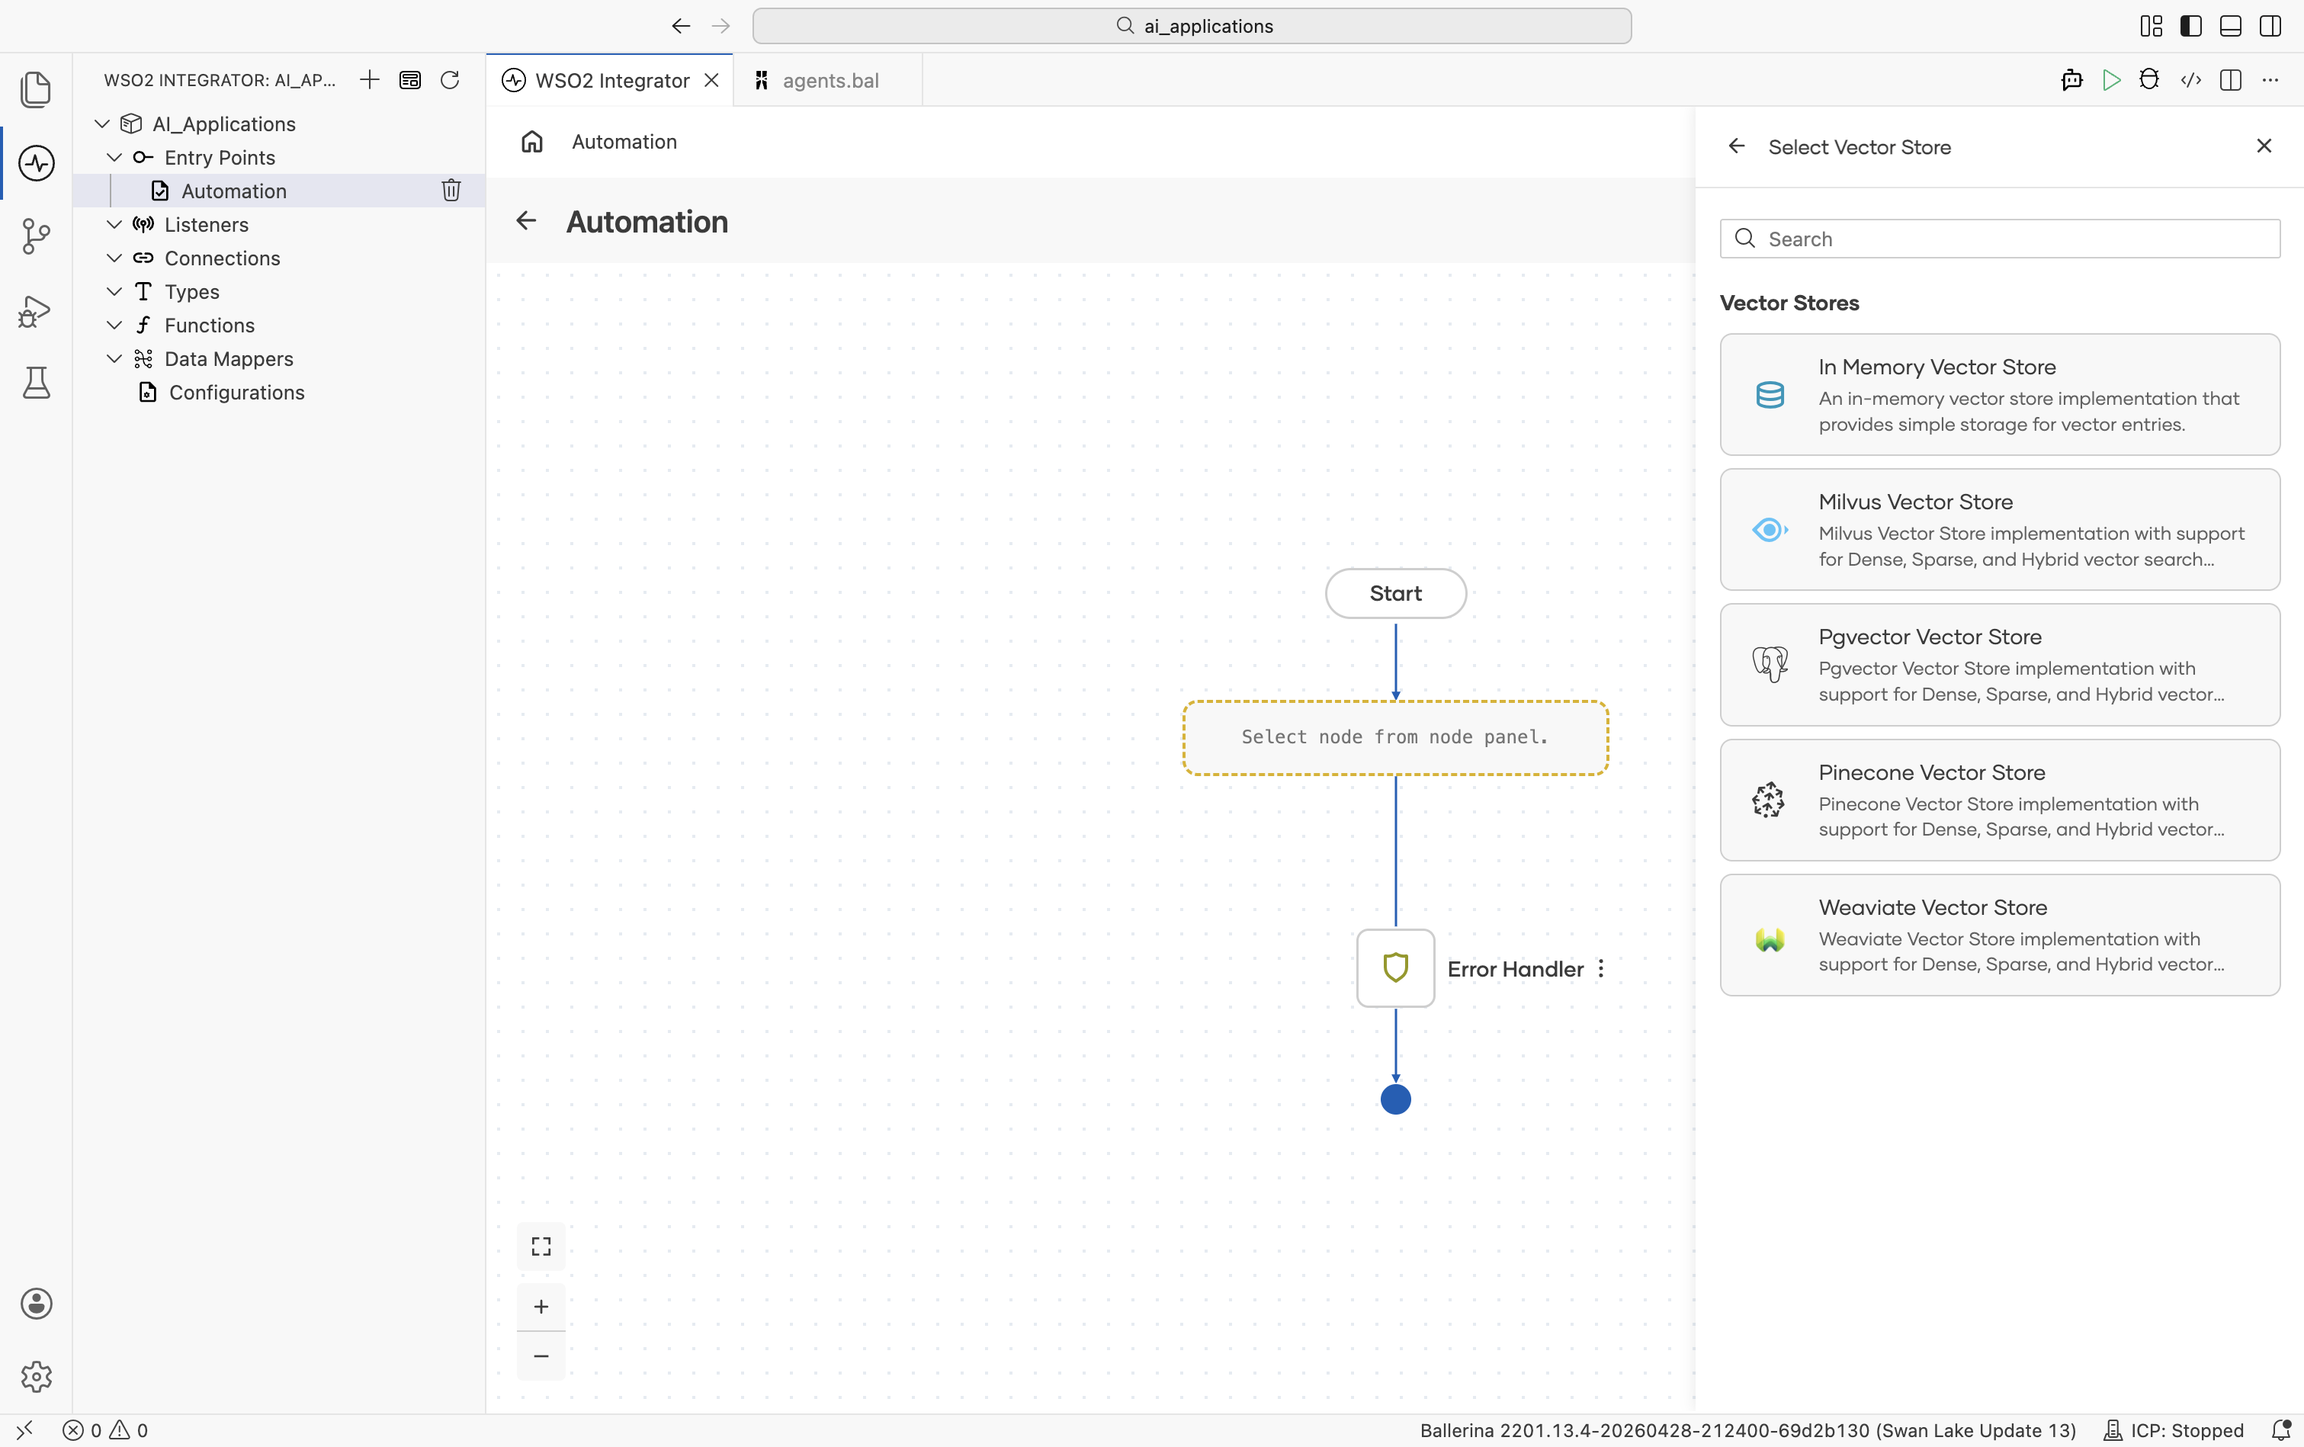
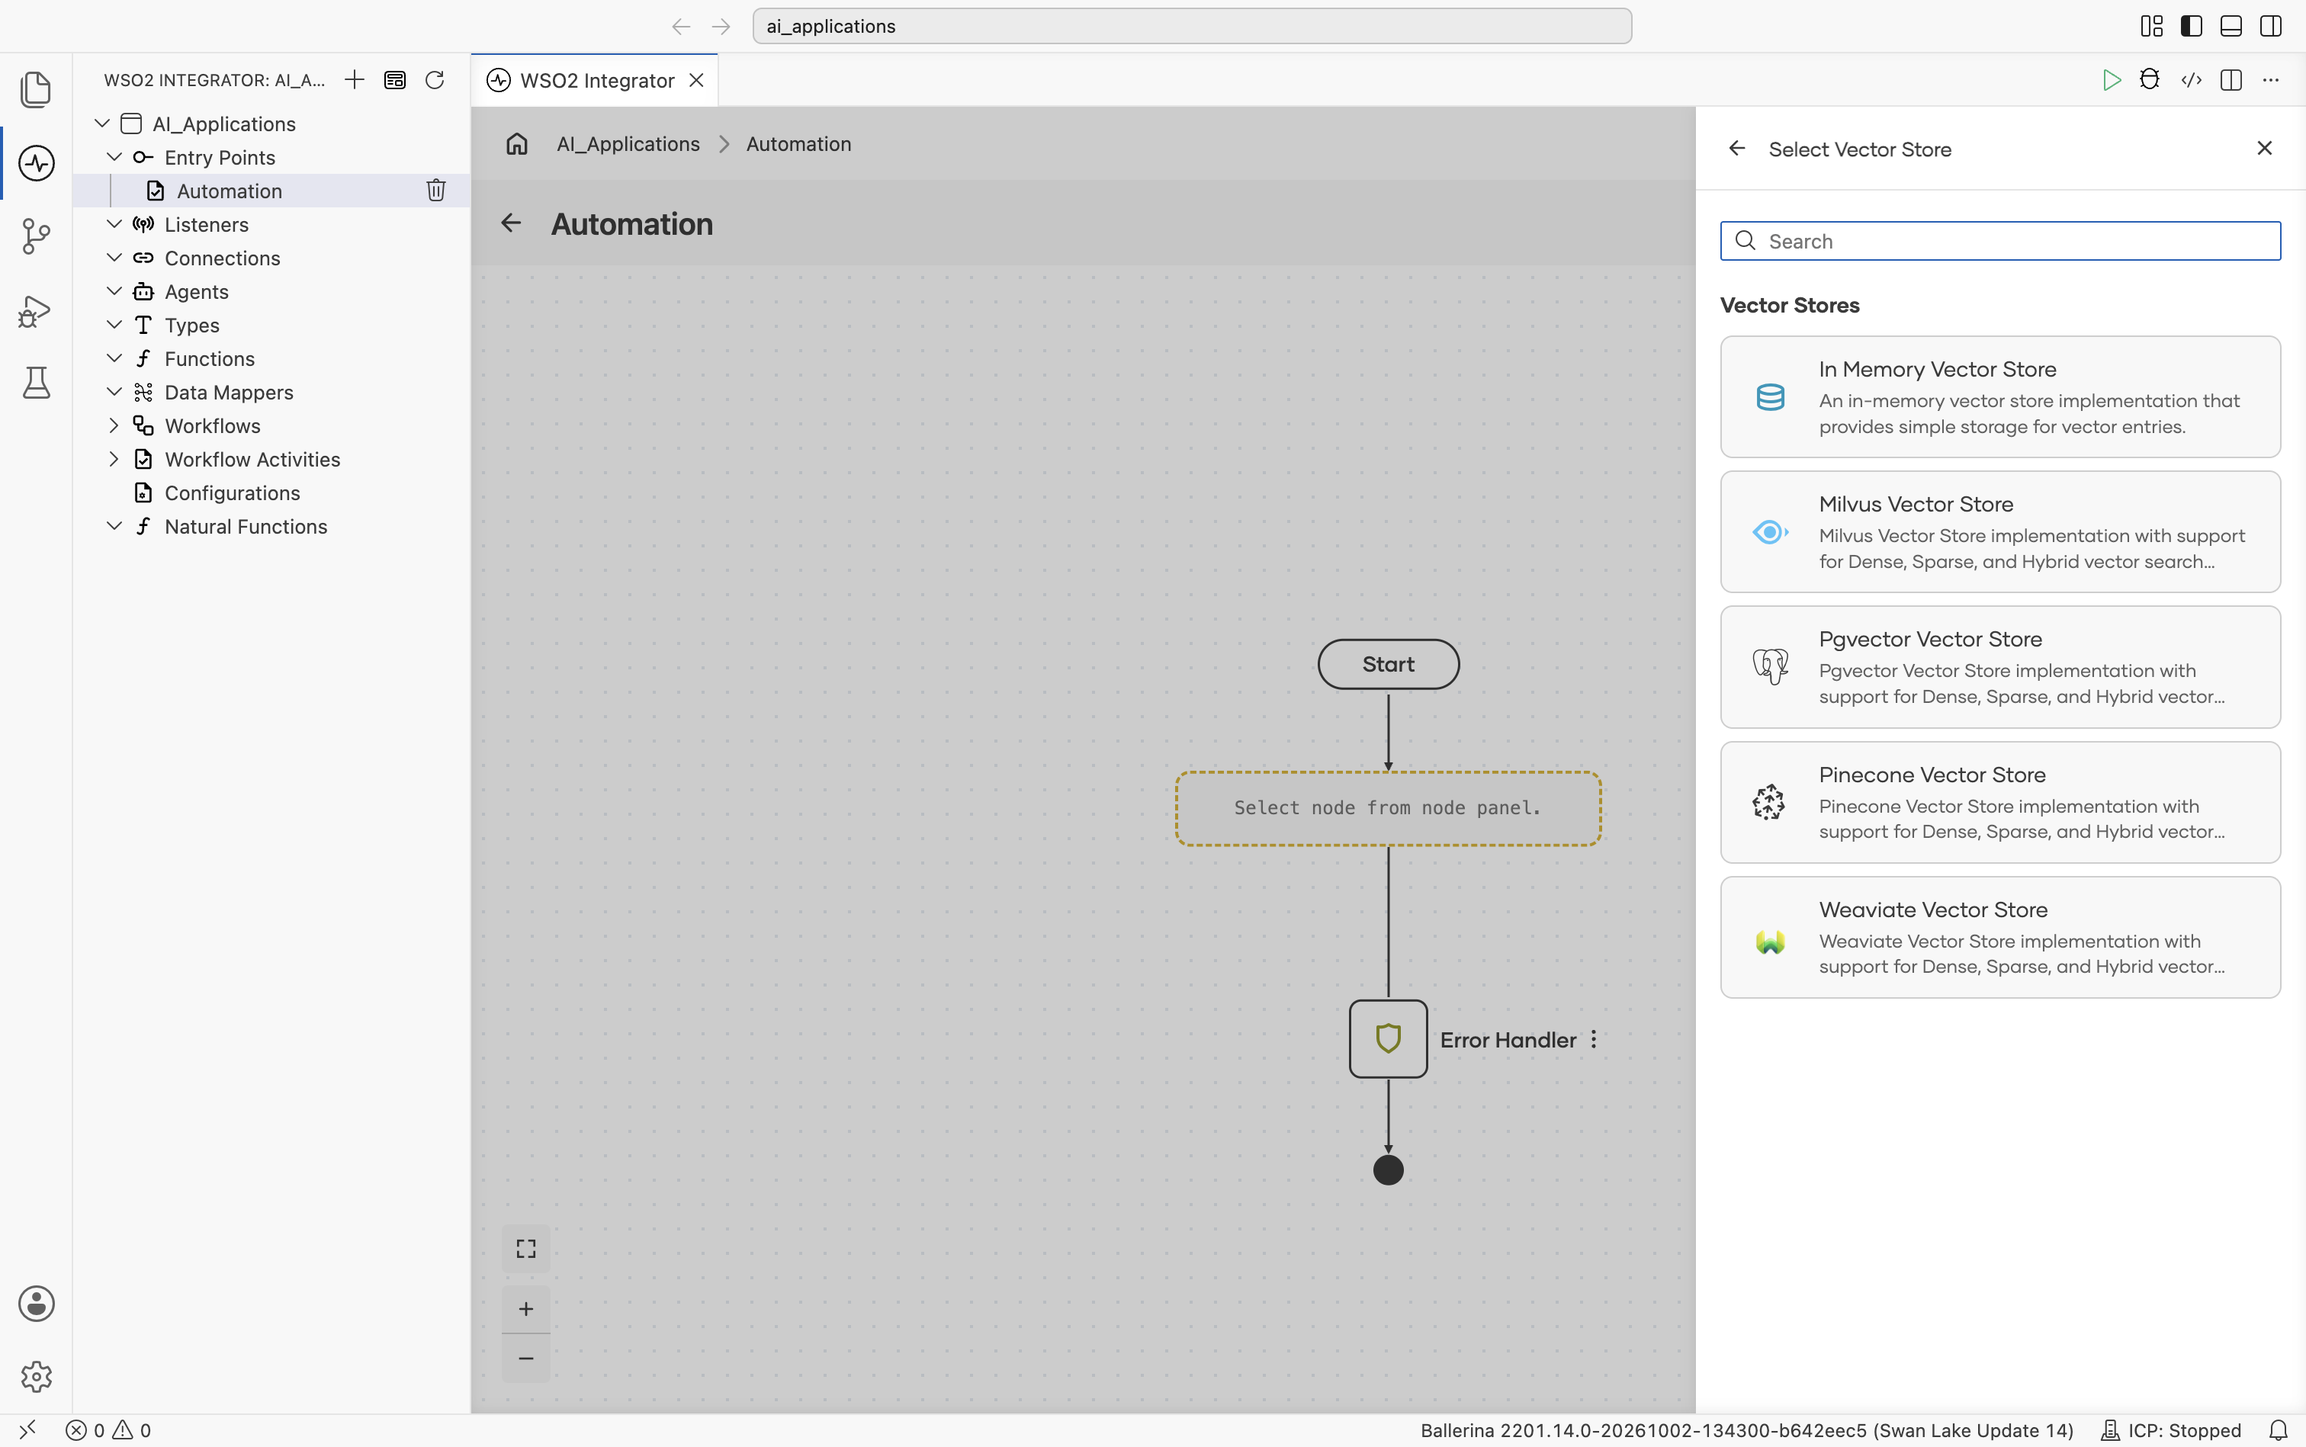
docs(genai): update Vector Stores reference with new UI screenshots

diff --git a/en/versioned_docs/version-5.0.0/genai/develop/components/vector-stores.md b/en/versioned_docs/version-5.0.0/genai/develop/components/vector-stores.md
@@ -70,9 +70,12 @@ Local stores let you choose the metric. Hosted stores manage it themselves (you 
 
 ## Where to find vector stores
 
-Inside the **Create Vector Knowledge Base** form click **+ Create New Vector Store**, or open the **Vector Stores** panel from any flow editor. The **Select Vector Store** picker shows the supported stores:
+- **Add Node** panel > **AI** > **RAG** > **Knowledge Base**.
+- Click **+ Add Knowledge Base**, then select **Vector Knowledge Base** from the **Knowledge Bases** picker.
+- In the **Create Vector Knowledge Base** form, click **+ Create New Vector Store**.
+- The **Select Vector Store** picker opens, listing all supported stores with a search bar at the top:
 
-![Select Vector Store picker listing In Memory Vector Store, Milvus Vector Store, pgvector Vector Store, Pinecone Vector Store (highlighted), and Weaviate Vector Store, each with a one-line description.](/img/genai/develop/components/vector-stores/01-select-list.png)
+![Select Vector Store picker with a search bar and five cards: In Memory Vector Store described as providing simple storage for vector entries, Milvus Vector Store described as supporting Dense, Sparse, and Hybrid vector search, Pgvector Vector Store described as supporting Dense, Sparse, and Hybrid vector search, Pinecone Vector Store described as supporting Dense, Sparse, and Hybrid vector search, and Weaviate Vector Store described as supporting Dense, Sparse, and Hybrid vector search.](/img/genai/develop/components/vector-stores/01-select-list.png)
 
 ## Implementations overview
 
@@ -90,13 +93,9 @@ Embeddings live in the running integration's process memory. The store loses all
 
 ### Create form
 
-![Create Vector Store form for In-Memory showing the banner 'This operation has no required parameters. Optional settings can be configured below.' Advanced Configurations Expand link, Vector Store Name (default aiInmemoryvectorstore), Result Type (locked to ai:InMemoryVectorStore).](/img/genai/develop/components/vector-stores/02-in-memory-basic.png)
+![Create Vector Store form for In-Memory. Header reads 'Initializes a new in-memory vector store.' Banner: 'This operation has no required parameters. Optional settings can be configured below.' Similarity Metric field (default COSINE), Vector Store Name (default ailnmemoryvectorstore), Result Type (locked to ai:InMemoryVectorStore). Save button.](/img/genai/develop/components/vector-stores/02-in-memory-basic.png)
 
-No required fields.
-
-### Advanced configurations
-
-![In-Memory Vector Store Create form with Advanced Configurations expanded showing Similarity Metric (default COSINE).](/img/genai/develop/components/vector-stores/03-in-memory-advanced.png)
+No required fields. **Similarity Metric** is shown directly on the form:
 
 | Field | Default | Available values | What it controls |
 |---|---|---|---|
@@ -114,21 +113,14 @@ Official website: [Milvus documentation](https://milvus.io/docs).
 
 ### Create form
 
-![Create Vector Store form for Milvus showing three required fields: API Key (The API key for the Milvus service), Milvus Configuration (record/expression toggle, default {}), and Service URL. Below: Advanced Configurations Expand link, Vector Store Name milvusVectorstore, Result Type milvus:VectorStore.](/img/genai/develop/components/vector-stores/04-milvus-basic.png)
+![Create Vector Store form for Milvus. Header reads 'Initializes the Milvus vector store with the given configuration.' Fields: Service URL, API Key, Milvus Configuration (record/expression toggle, default {}), HTTP Configuration (default {}), Vector Store Name (default milvusVectorstore), Result Type (locked to milvus:VectorStore). Save button.](/img/genai/develop/components/vector-stores/03-milvus-basic.png)
 
 | Field | Required | Default | Available values |
 |---|---|---|---|
+| **Service URL** | Yes | — | The Milvus service URL. |
 | **API Key** | Yes | — | Milvus API key (sent as a bearer token). |
 | **Milvus Configuration** | Yes | `{}` | Record with collection settings. **Collection Name** (default `"default"`): the Milvus collection to use. **Chunk Field Name** (optional): the field on the collection that holds the chunk content. **Primary Key Field** (default `"id"`): the collection's primary-key field. **Additional Fields** (default `[]`): extra fields to include in search results, on top of `content`, `type`, `vector`, `metadata`. |
-| **Service URL** | Yes | — | The Milvus service URL. |
-
-### Advanced configurations
-
-![Milvus Vector Store Create form with Advanced Configurations expanded showing HTTP Configuration (default {}).](/img/genai/develop/components/vector-stores/05-milvus-advanced.png)
-
-| Field | Default | Available values | What it controls |
-|---|---|---|---|
-| **HTTP Configuration** | `{}` | Record | Standard HTTP knobs. Same fields as [Standard HTTP advanced configurations](./model-providers.md#standard-http-advanced-configurations). |
+| **HTTP Configuration** | No | `{}` | Record. Standard HTTP knobs. Same fields as [Standard HTTP advanced configurations](./model-providers.md#standard-http-advanced-configurations). Shown directly on the form. |
 
 :::info
 The connector loads the collection into memory automatically before each search. Milvus converts IDs to integers for the primary key field.
@@ -142,26 +134,28 @@ Official website: [pgvector on GitHub](https://github.com/pgvector/pgvector).
 
 ### Create form
 
-![Create Vector Store form for pgvector showing four required fields: Database Name, Host Name, Password, Username. Below: Advanced Configurations Expand link, Vector Store Name pgvectorVectorstore, Result Type pgvector:VectorStore.](/img/genai/develop/components/vector-stores/06-pgvector-basic.png)
+The form opens with **Host Name**, **Username**, **Password**, **Database Name**, **Table Name**, and the start of **Port Number**:
+
+![Create Vector Store form for pgvector showing Host Name, Username, Password, Database Name, Table Name (default "vector_store"), and the start of Port Number (default 5432).](/img/genai/develop/components/vector-stores/04-pgvector-basic.png)
 
 | Field | Required | Default | Available values |
 |---|---|---|---|
-| **Database Name** | Yes | — | PostgreSQL database name. |
 | **Host Name** | Yes | — | Database host, for example `localhost`. |
-| **Password** | Yes | — | Database password. |
 | **Username** | Yes | — | Database user. |
+| **Password** | Yes | — | Database password. |
+| **Database Name** | Yes | — | PostgreSQL database name. |
+| **Table Name** | No | `"vector_store"` | Table to store vectors in. Created on first use if missing. |
+| **Port Number** | No | `5432` | Any positive integer. Database port. |
 
-### Advanced configurations
+Scrolling further shows Additional Set Of Configurations For The Database, Properties To Configure Connection Pool, Configurations For The Vector Store, then **Vector Store Name** and **Result Type**:
 
-![pgvector Vector Store Create form with Advanced Configurations expanded showing Configurations For The Vector Store (default {}), Properties To Configure Connection Pool (default {}), Additional Set Of Configurations For The Database (default {}), Port Number (default 5432), Table Name (default 'vector_store').](/img/genai/develop/components/vector-stores/07-pgvector-advanced.png)
+![Bottom of the pgvector Create Vector Store form showing Additional Set Of Configurations For The Database (default {}), Properties To Configure Connection Pool (default {}), Configurations For The Vector Store (default {}), Vector Store Name set to pgvectorVectorstore, and Result Type locked to pgvector:VectorStore.](/img/genai/develop/components/vector-stores/05-pgvector-inline-bottom.png)
 
 | Field | Default | Available values | What it controls |
 |---|---|---|---|
-| **Configurations For The Vector Store** | `{}` | Record (`embeddingType`, `vectorDimension`, `similarityMetric`) | **Embedding Type**: `ai:DENSE` (default) or `ai:SPARSE`. Picks the column type (`vector` vs `sparsevec`). **Vector Dimension**: `1536` by default; must match your embedding provider's output dimension. **Similarity Metric**: `COSINE` (default), `EUCLIDEAN`, or `MANHATTAN`. |
-| **Properties To Configure Connection Pool** | `{}` | Record | Connection pool settings. |
 | **Additional Set Of Configurations For The Database** | `{}` | Record | Extra PostgreSQL options (SSL mode, connect timeout, and so on). |
-| **Port Number** | `5432` | Any positive integer | Database port. |
-| **Table Name** | `"vector_store"` | String | Table to store vectors in. Created on first use if missing. |
+| **Properties To Configure Connection Pool** | `{}` | Record | Connection pool settings. |
+| **Configurations For The Vector Store** | `{}` | Record (`embeddingType`, `vectorDimension`, `similarityMetric`) | **Embedding Type**: `ai:DENSE` (default) or `ai:SPARSE`. Picks the column type (`vector` vs `sparsevec`). **Vector Dimension**: `1536` by default; must match your embedding provider's output dimension. **Similarity Metric**: `COSINE` (default), `EUCLIDEAN`, or `MANHATTAN`. |
 
 :::info
 Auto-created table schema: `id VARCHAR PRIMARY KEY, content TEXT, embedding vector|sparsevec, metadata JSONB`. The connector creates an HNSW index automatically for fast similarity search.
@@ -175,22 +169,15 @@ Official website: [Pinecone documentation](https://docs.pinecone.io).
 
 ### Create form
 
-![Create Vector Store form for Pinecone showing two required fields: API Key (Pinecone API key for authentication) and Service URL (URL of the Pinecone API service). Below: Advanced Configurations Expand link, Vector Store Name pineconeVectorstore, Result Type pinecone:VectorStore.](/img/genai/develop/components/vector-stores/08-pinecone-basic.png)
+![Create Vector Store form for Pinecone. Header reads 'Initializes the PineconeVectorStore with the given configuration.' Fields: Service URL, API Key, Query Mode (default DENSE), Pinecone Configuration (default {}), HTTP Configuration (default {}), Vector Store Name (default pineconeVectorstore), Result Type (locked to pinecone:VectorStore). Save button.](/img/genai/develop/components/vector-stores/06-pinecone-basic.png)
 
 | Field | Required | Default | Available values |
 |---|---|---|---|
-| **API Key** | Yes | — | Pinecone API key. |
 | **Service URL** | Yes | — | URL of the Pinecone index endpoint. |
-
-### Advanced configurations
-
-![Pinecone Vector Store Create form with Advanced Configurations expanded showing Pinecone Configuration (default {}), HTTP Configuration (default {}), Query Mode (default ai:DENSE).](/img/genai/develop/components/vector-stores/09-pinecone-advanced.png)
-
-| Field | Default | Available values | What it controls |
-|---|---|---|---|
-| **Pinecone Configuration** | `{}` | Record (`namespace`, `filters`, `sparseVector`) | Pinecone-specific settings. **Namespace** isolates vectors for multi-tenancy. **Filters** sets default metadata filters applied on every query. **Sparse Vector** is needed for hybrid search. |
-| **HTTP Configuration** | `{}` | Record | Standard HTTP knobs. Same fields as [Standard HTTP advanced configurations](./model-providers.md#standard-http-advanced-configurations). |
-| **Query Mode** | `ai:DENSE` | `ai:DENSE`, `ai:SPARSE`, `ai:HYBRID` | Search mode. |
+| **API Key** | Yes | — | Pinecone API key. |
+| **Query Mode** | No | `ai:DENSE` | `ai:DENSE`, `ai:SPARSE`, `ai:HYBRID`. Search mode. |
+| **Pinecone Configuration** | No | `{}` | Record (`namespace`, `filters`, `sparseVector`). Pinecone-specific settings. **Namespace** isolates vectors for multi-tenancy. **Filters** sets default metadata filters applied on every query. **Sparse Vector** is needed for hybrid search. |
+| **HTTP Configuration** | No | `{}` | Record. Standard HTTP knobs. Same fields as [Standard HTTP advanced configurations](./model-providers.md#standard-http-advanced-configurations). |
 
 :::info
 `topK` must be in the range 1–10000.
@@ -204,21 +191,14 @@ Official website: [Weaviate documentation](https://weaviate.io/developers/weavia
 
 ### Create form
 
-![Create Vector Store form for Weaviate showing three required fields: API Key (The API key for the Weaviate service), Weaviate Configuration (record/expression toggle, default '\{collectionName: ""\}'), and Service URL. Below: Advanced Configurations Expand link, Vector Store Name weaviateVectorstore, Result Type weaviate:VectorStore.](/img/genai/develop/components/vector-stores/10-weaviate-basic.png)
+![Create Vector Store form for Weaviate. Header reads 'Initializes the Weaviate vector store with the given configuration.' Fields: Service URL, API Key, Weaviate Configuration (record/expression toggle, default '\{collectionName: ""\}'), HTTP Configuration (default {}), Vector Store Name (default weaviateVectorstore), Result Type (locked to weaviate:VectorStore). Save button.](/img/genai/develop/components/vector-stores/07-weaviate-basic.png)
 
 | Field | Required | Default | Available values |
 |---|---|---|---|
+| **Service URL** | Yes | — | The Weaviate endpoint URL. |
 | **API Key** | Yes | — | Weaviate API key (sent as a bearer token). |
 | **Weaviate Configuration** | Yes | `{collectionName: ""}` | Record with collection-level config. **Collection Name** (required): the Weaviate collection to use; must already exist. **Chunk Field Name** (optional, default `"content"`): the field on the collection that holds the chunk content. |
-| **Service URL** | Yes | — | The Weaviate endpoint URL. |
-
-### Advanced configurations
-
-![Weaviate Vector Store Create form with Advanced Configurations expanded showing HTTP Configuration (default {}).](/img/genai/develop/components/vector-stores/11-weaviate-advanced.png)
-
-| Field | Default | Available values | What it controls |
-|---|---|---|---|
-| **HTTP Configuration** | `{}` | Record | Standard HTTP knobs. Same fields as [Standard HTTP advanced configurations](./model-providers.md#standard-http-advanced-configurations). |
+| **HTTP Configuration** | No | `{}` | Record. Standard HTTP knobs. Same fields as [Standard HTTP advanced configurations](./model-providers.md#standard-http-advanced-configurations). |
 
 :::info
 This connector supports dense vectors only. Weaviate maps the `certainty` score to the `similarityScore` field in the response.
